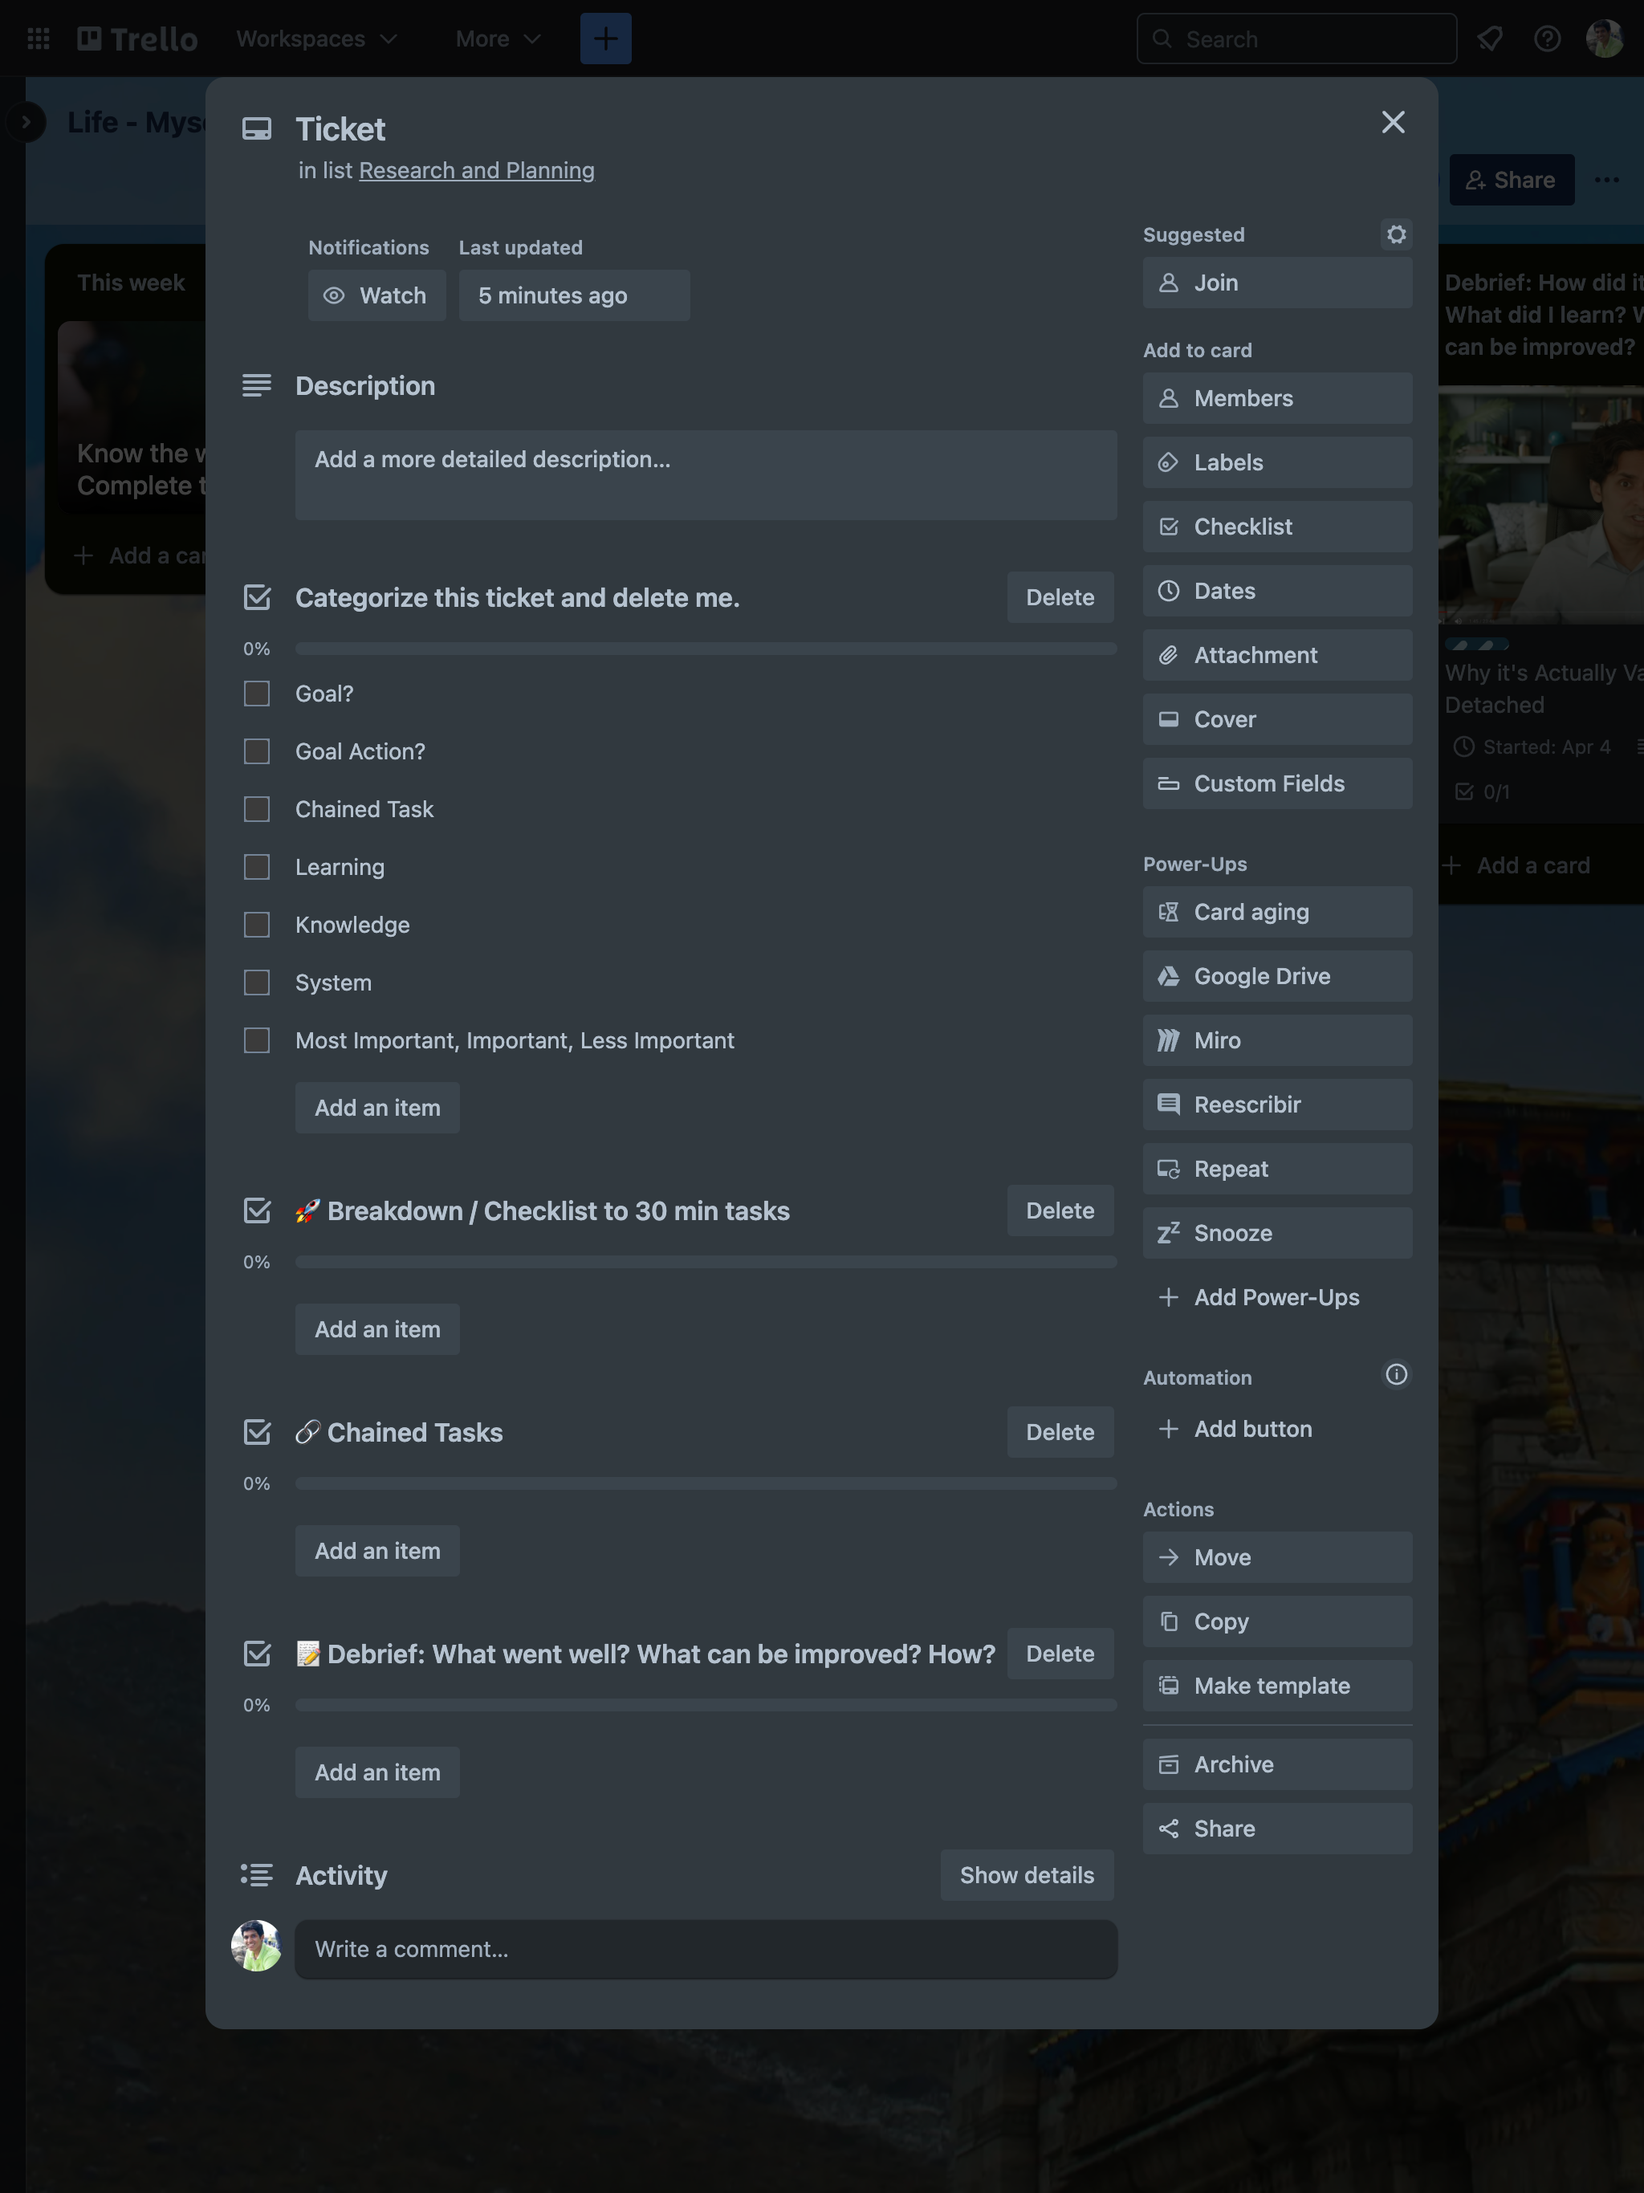
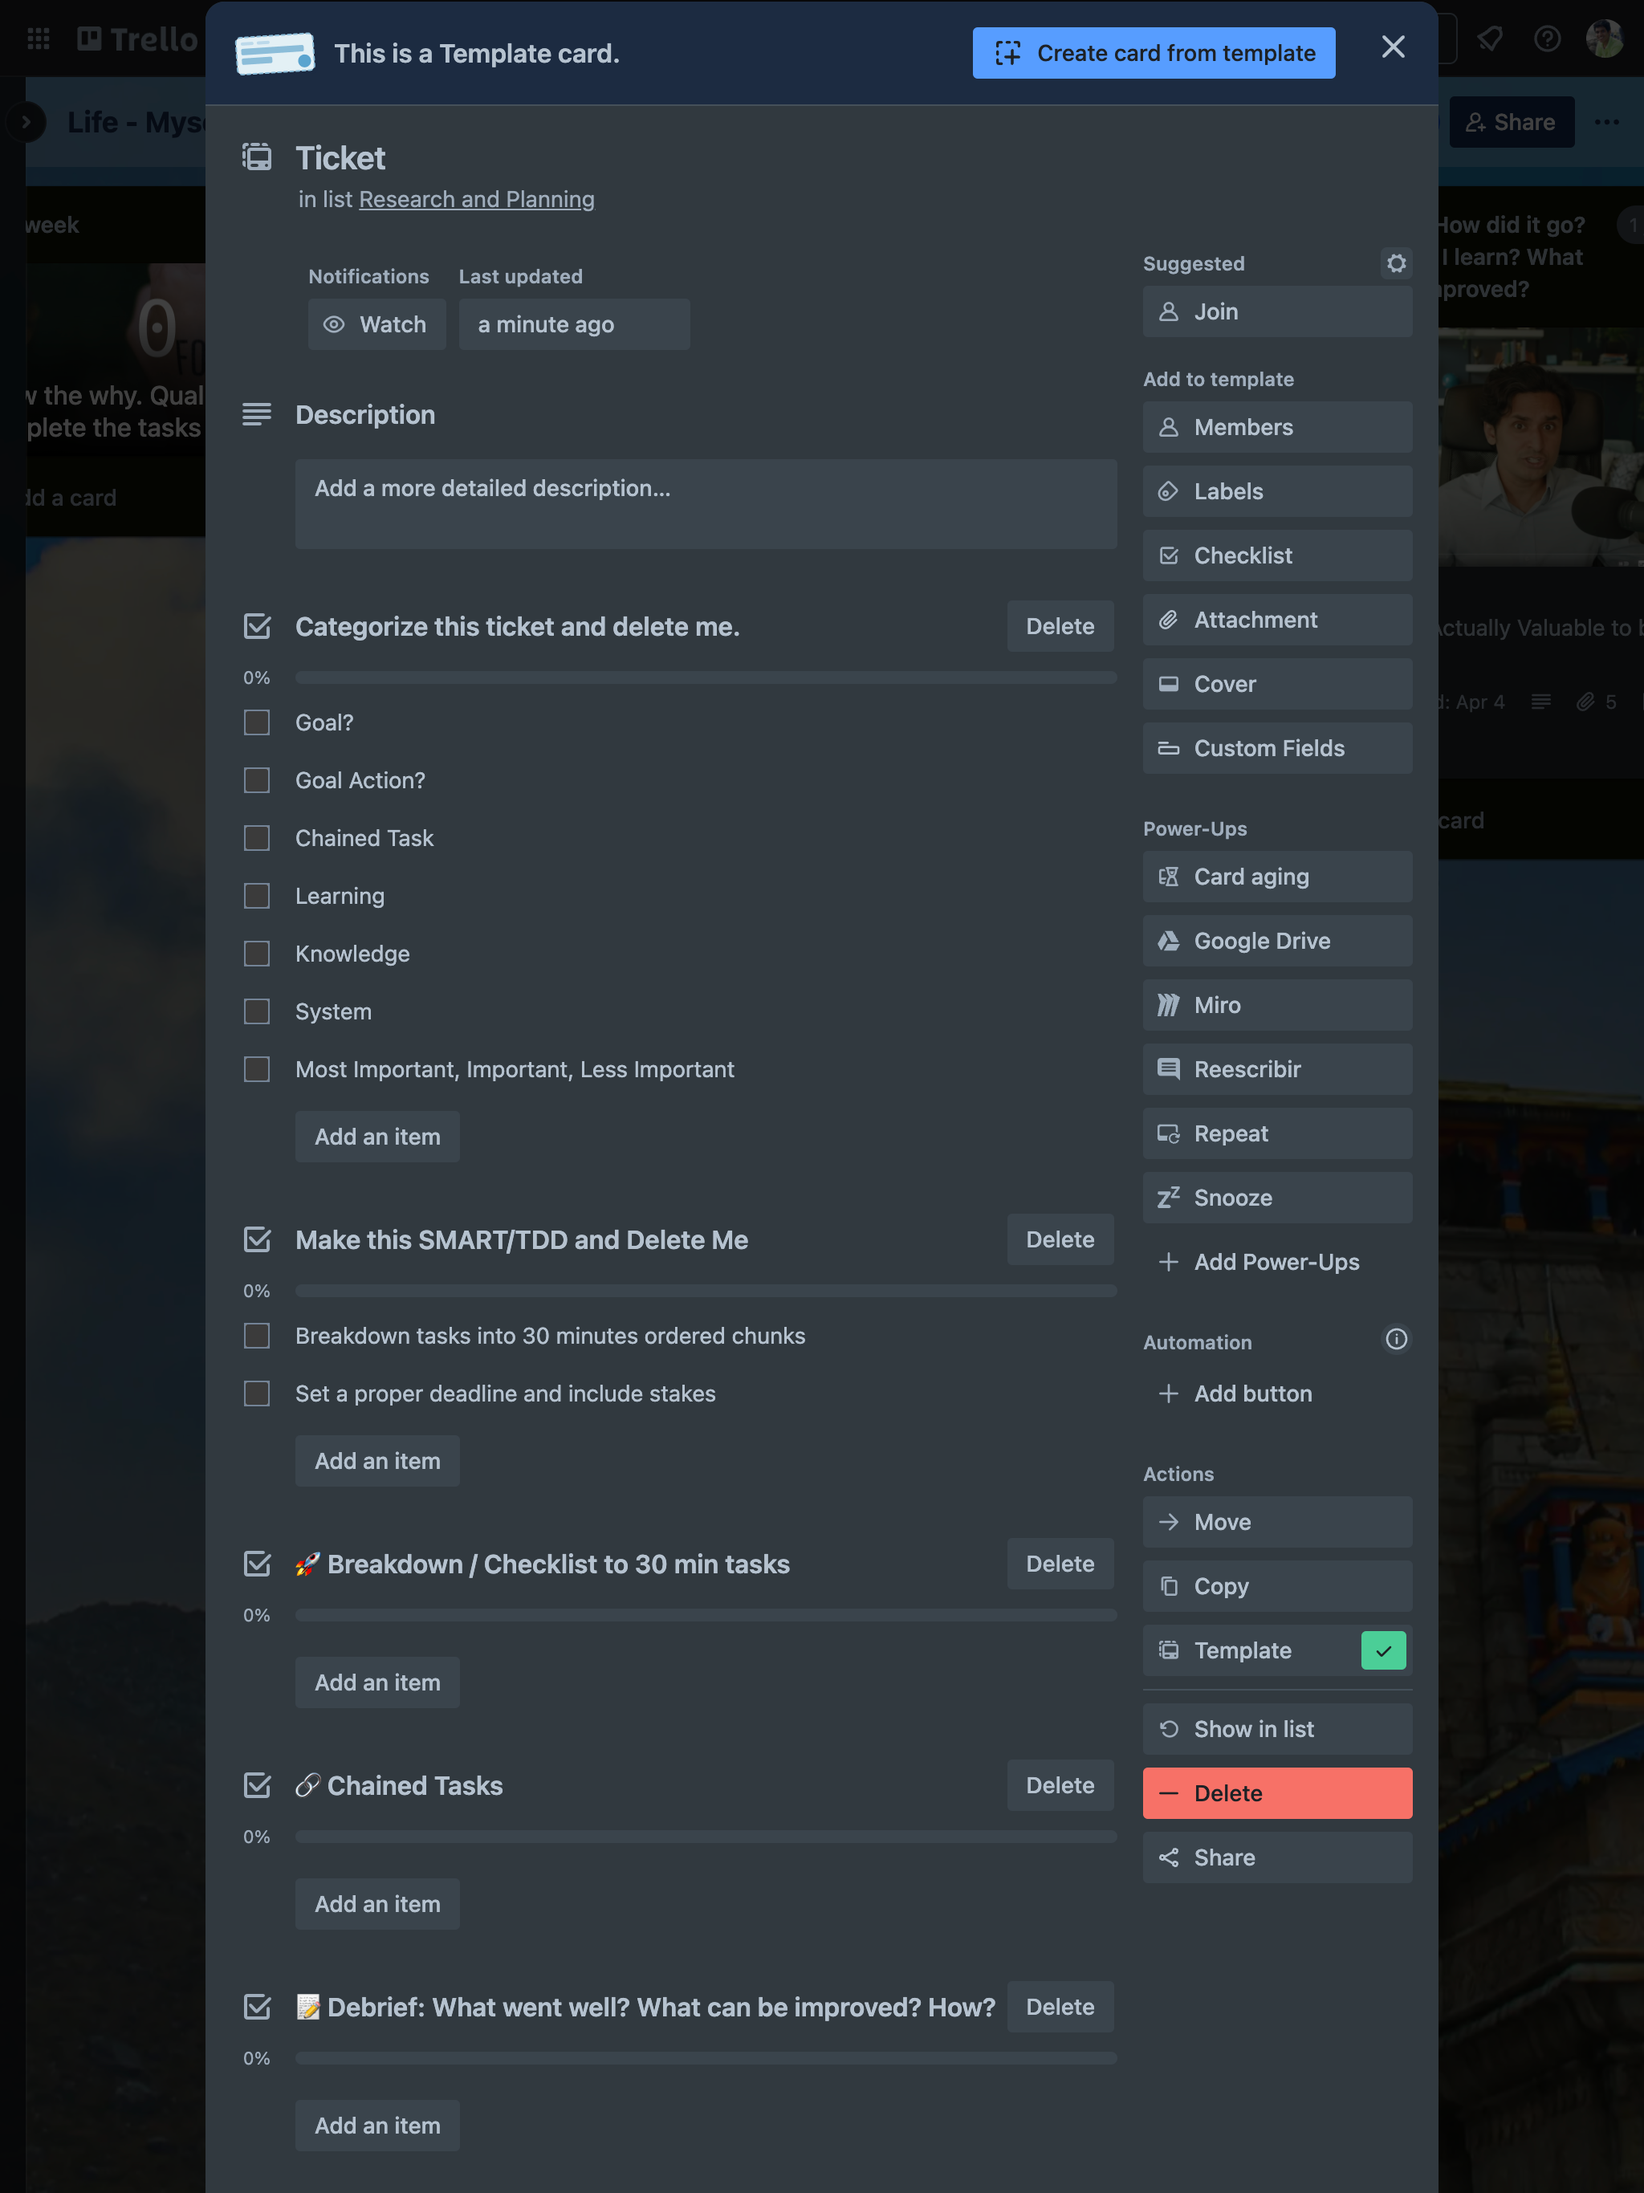
trello

diff --git a/src/content/post/philosophy/core-values/systems/how-i-use-trello.md b/src/content/post/philosophy/core-values/systems/how-i-use-trello.md
@@ -43,7 +43,9 @@ Here are a few things I've done to optimize my Trello system:
 
 By following these steps and continuously refining your system, you'll be able to maintain high productivity and stay organized.
 
-## Board Structure
+## Board
+
+### Board Structure
 
 The goal of a good board structure is to help you be **extremely organized** and help you in what to do next.
 
@@ -57,7 +59,7 @@ The basic Trello structure includes the following columns:
 
 I enhance column by splitting it into multiple columns. But this I only do when the number of cards increase. **If the number of cards are less, I'll again switch back to less number of columns**.
 
-### **Enhancing the "To Do" Column**
+#### **Enhancing the "To Do" Column**
 
 Instead of having a single "To Do" column, consider splitting it into multiple columns to better prioritize tasks:
 
@@ -131,7 +133,7 @@ Doing these tasks properly frees up more time in the future.
 
 Essentially, you want to solve the root of the problem. Once solved fully, it'll eliminate all the other problems.
 
-### **Enhancing the "Doing" Column**
+#### **Enhancing the "Doing" Column**
 
 A single doing column doesn't indicate how much you have progressed on a task. It's better to have multiple columns.
 
@@ -162,7 +164,7 @@ Like with MosCow, my default for most boards is:
 
 This way, I know exactly what stage each task is in and what needs to be done next.
 
-### **Enhancing the "Done" Column**
+#### **Enhancing the "Done" Column**
 
 Completing a task often isn't as straightforward as marking it "done." We want to:
 
@@ -237,7 +239,7 @@ Naming it this way has been helpful to me. (TODO: Blogpost on important of namin
 
 By organizing the "Done" column into specific categories and maintaining a detailed system for chained tasks, you can ensure comprehensive task management and continuous improvement. And ensure nothing goes out of your mind.
 
-### Enhancing Knowledge Capture (Unfinished Idea: TODO: Improve this aspect then write about it)
+#### Enhancing Knowledge Capture (Unfinished Idea: TODO: Improve this aspect then write about it)
 
 I don't have a very good insight into capturing long term ideas. For example, if I learnt something that I want to acess later.
 
@@ -261,15 +263,69 @@ Read:
 - https://oliconner.medium.com/insight-sprint-part-two-reflections-on-platforms-and-trello-f57050ef6308
 - https://www.youtube.com/watch?v=8yZ7X_ZIHXo (Definitely Do This Week)
 
+## "Command Center / Dashboard" Board
+
+As I created multiple boards, I realized I would focus on one area and not the other. I wanted a way to look at multiple boards at once and do what's important in all of them. Which led me to creation of "Command Center / Dashboard" Board.
+
+The "Command Center / Dashboard" Board allows me to:
+
+- Manage multiple boards at once
+- Manage my focus on long term goals
+- Track this weeks work via Weekly cards.
+- Contain an weekly inbox card which helps me keep my other boards clean.
+- Help me reduce overall number of cards.
+
+It has the following columns:
+
+- **Definely do this week**: Dashcards of varios boards that I need to get done this week
+- **Sets / Reps**: Split into parts
+- **Done for the week**
+- **Global Card Count**: Dashcards for total count on a board
+- **Plans / Goals**: Multi Year Plans
+
+![](/images/life-blog/how-i-use-trello/dashcard-do.png)
+
+I often will purge cards from boards if they are too many.
+
+**Example: Purging Cards from Blog Board**
+
+- I had too many random ideas in my Blog Board and it was very hard to manage.
+- When I added the dashcard to count it, it denoted 480+ ideas. This was too much and I had to purge.
+- Over a few iteretions I purged it down to 94 currently. This is much easier to manage.
+
+I now use the comments section ot see my purge progress:
+
+![](/images/life-blog/how-i-use-trello/purging-blogposts.png)
+
+
 ****
 
-## Card Structure
+## Cards
 
-In Trello, tasks are divided as cards.
+I use cards to,
 
-### Ticket Template
+- track what I am doing
+- include any information I need for doing the task of for future reference.
+
+### Card Structure
+
+In Trello, tasks are divided as cards. I do have multiple card templates but recently I am trying to unify them into one.
+
+They include 4 checklists.
+
+- **🗑 Categorize this ticket & Delete Me**: Assign Labels When Card is Created. I'll delete this checklist once labels are added.
+- **🗑 Make this SMART/TDD & Delete Me**: I'll use this checklist when I decide to work on the task. As part of this I'll make this ticket specific, measureable etc by breaking it down properly and assigning a due data.
+- **🚀 Breakdown / Checklist to 30 min tasks**: So that I can do it as pomodoros
+- **🔗 Chained Tasks**: Additional tasks related to this one.
+- **📝 Debrief: What went well? What can be improved? How?**: Any improvements I need to do?
+
+The top two portion is just for planning and can be deleted.
 
 ![](/images/life-blog/how-i-use-trello/Ticket-Template.png)
+
+
+
+### Incorporating ChatGPT Templates in Checklists
 
 ### Breaking down Big Cards into Smaller Specific Cards
 
@@ -304,40 +360,6 @@ In Trello, you can break down tasks in two primary ways:
 Usually, if I have a task which is multiple months, I'll break it down into a bunch of smaller cards that I can take action on in about a week.
 
 And for checklist it depends, I may not may not use checklist if the task itself it small. But if a task get's complex, I'll break it down to checklists.
-
-## Command Center / Dashboard
-
-As I created multiple boards, I realized I would focus on one area and not the other. I wanted a way to look at multiple boards at once and do what's important in all of them. Which led me to creation of "Command Center / Dashboard" Board.
-
-The "Command Center / Dashboard" Board allows me to:
-
-- Manage multiple boards at once
-- Manage my focus on long term goals
-- Track this weeks work via Weekly cards.
-- Contain an weekly inbox card which helps me keep my other boards clean.
-- Help me reduce overall number of cards.
-
-It has the following columns:
-
-- **Definely do this week**: Dashcards of varios boards that I need to get done this week
-- **Sets / Reps**: Split into parts
-- **Done for the week**
-- **Global Card Count**: Dashcards for total count on a board
-- **Plans / Goals**: Multi Year Plans
-
-![](/images/life-blog/how-i-use-trello/dashcard-do.png)
-
-I often will purge cards from boards if they are too many.
-
-**Example: Purging Cards from Blog Board**
-
-- I had too many random ideas in my Blog Board and it was very hard to manage.
-- When I added the dashcard to count it, it denoted 480+ ideas. This was too much and I had to purge.
-- Over a few iteretions I purged it down to 94 currently. This is much easier to manage.
-
-I now use the comments section ot see my purge progress:
-
-![](/images/life-blog/how-i-use-trello/purging-blogposts.png)
 
 
 ## Optional: Creating More Boards
